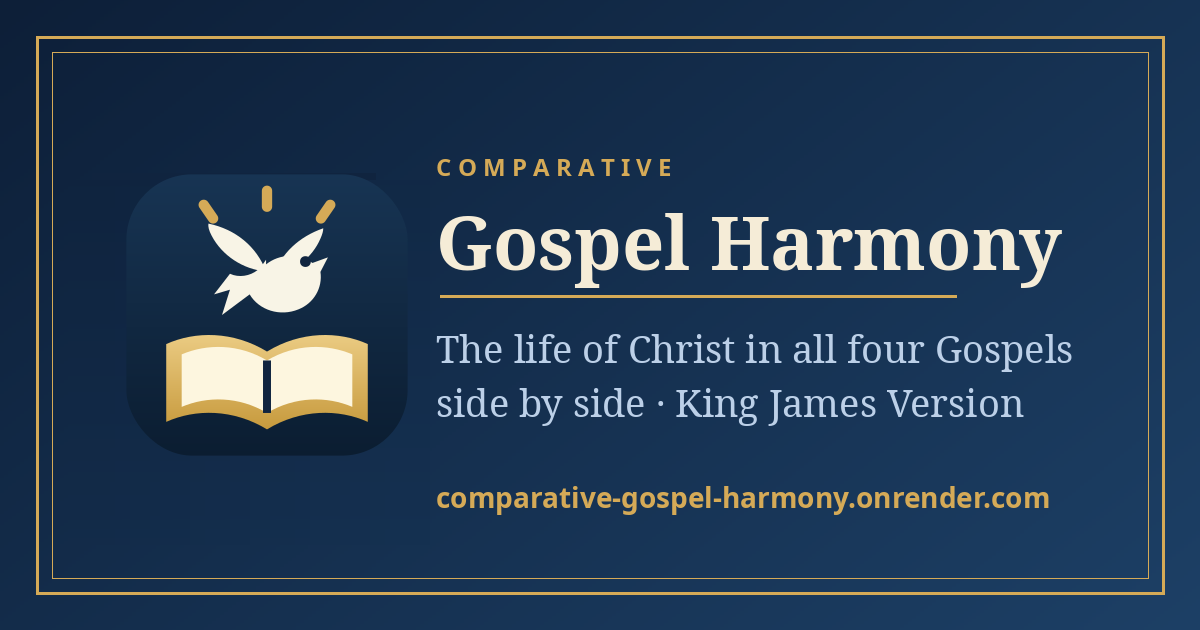
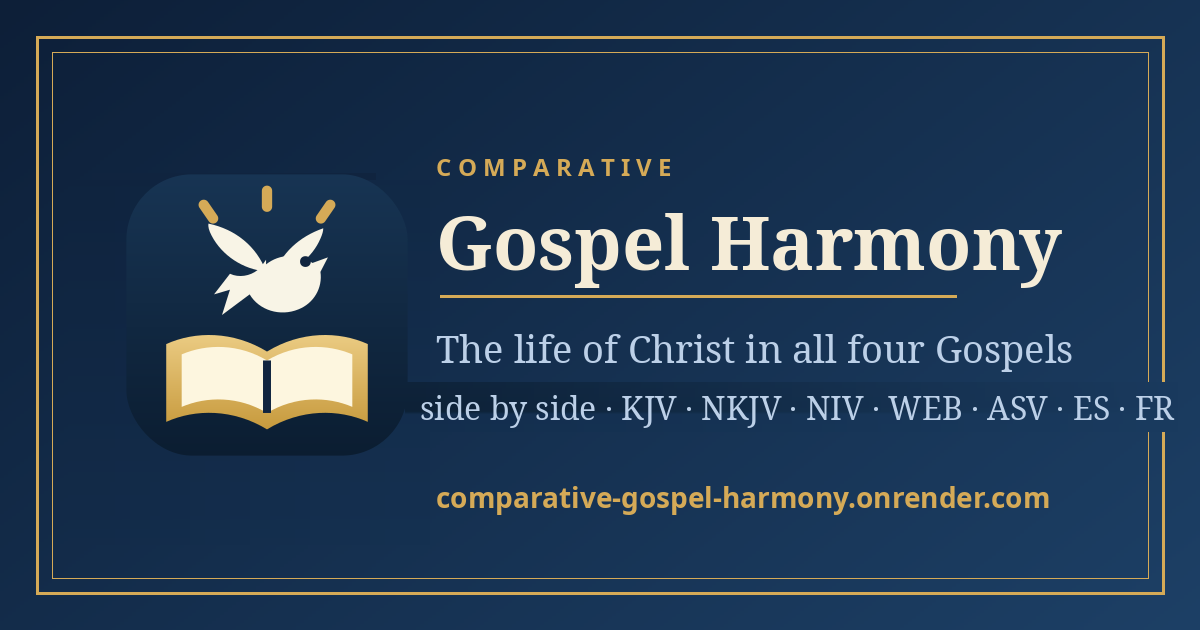
Share card + descriptions: name all 7 Bible versions, SW v36

Changed region(s): [[0.3392, 0.6032, 0.9867, 0.6937]]

diff --git a/index.html b/index.html
@@ -5,7 +5,7 @@
   <meta name="viewport" content="width=device-width, initial-scale=1">
   <meta name="theme-color" content="#10243f">
   <script>try{if(/(access_token|refresh_token|type=recovery)/.test(location.hash)){sessionStorage.setItem("gh-auth-hash",location.hash)}}catch(e){}</script>
-  <meta name="description" content="Compare every chronological Gospel event across Matthew, Mark, Luke, and John in the King James Version.">
+  <meta name="description" content="Compare every chronological Gospel event across Matthew, Mark, Luke, and John — in the KJV, NKJV, NIV, WEB, ASV, Spanish and French.">
   <title>Comparative Gospel Harmony</title>
   <link rel="icon" type="image/svg+xml" href="logo.svg">
   <link rel="stylesheet" href="styles.css?v=24">
@@ -29,7 +29,7 @@
 .hdr-menu-acct .acct-btn{margin:0 6px 6px 0}</style><link rel="manifest" href="manifest.webmanifest"><meta property="og:type" content="website">
 <meta property="og:site_name" content="Comparative Gospel Harmony">
 <meta property="og:title" content="Comparative Gospel Harmony — The Life of Jesus, Side by Side">
-<meta property="og:description" content="Read all four Gospels side by side in the KJV: 185 events of Jesus’ life compared across Matthew, Mark, Luke and John — with audio narration, reading journeys, and films.">
+<meta property="og:description" content="Read all four Gospels side by side: 185 events of Jesus’ life compared across Matthew, Mark, Luke and John — in the KJV, NKJV, NIV, WEB, ASV, Spanish and French, with audio narration, reading journeys, and films.">
 <meta property="og:url" content="https://comparative-gospel-harmony.onrender.com/">
 <meta property="og:image" content="https://comparative-gospel-harmony.onrender.com/og-image.png">
 <meta name="twitter:card" content="summary_large_image">
@@ -41,7 +41,7 @@
 
 <script type="application/ld+json">
 {"@context":"https://schema.org","@graph":[
-{"@type":"WebSite","name":"Comparative Gospel Harmony","url":"https://comparative-gospel-harmony.onrender.com/","inLanguage":"en","description":"Read the four Gospels side by side in the King James Version: the life of Jesus Christ arranged into 185 chronological events across Matthew, Mark, Luke and John."},
+{"@type":"WebSite","name":"Comparative Gospel Harmony","url":"https://comparative-gospel-harmony.onrender.com/","inLanguage":"en","description":"Read the four Gospels side by side in the KJV, NKJV, NIV, WEB, ASV, Spanish and French: the life of Jesus Christ arranged into 185 chronological events across Matthew, Mark, Luke and John."},
 {"@type":"WebApplication","name":"Comparative Gospel Harmony","url":"https://comparative-gospel-harmony.onrender.com/","applicationCategory":"EducationalApplication","operatingSystem":"Any","browserRequirements":"Requires JavaScript","offers":{"@type":"Offer","price":"0","priceCurrency":"USD"},"description":"A free Gospel harmony and Bible study app: compare every event of Jesus' life across the four Gospels in the KJV, with audio narration, a 30-day reading journey, films, a Life of Christ quiz, and a Scripture chat."}
 ]}
 </script>
@@ -77,7 +77,7 @@
     <div class="home-hero-motif" aria-hidden="true"><span class="home-hero-rule"></span><span class="home-hero-star">&#10022;</span><span class="home-hero-book">&#128214;</span><span class="home-hero-star">&#10022;</span><span class="home-hero-rule"></span></div>
     <h1 class="home-hero-title">Welcome to the Gospel Harmony</h1>
     <p class="home-hero-sub">The Life of Jesus, Told by All Four Gospels &mdash; Side by Side</p>
-    <p class="home-hero-lede">Matthew, Mark, Luke and John come together in one chronological story of Jesus' life &mdash; all <strong>185 events</strong>, from the first announcements of His birth to the Resurrection and the Ascension, with every Gospel's account set side by side in the King James Version (with the WEB and ASV alongside). Read, listen, watch and compare the full testimony in one place, free.</p>
+    <p class="home-hero-lede">Matthew, Mark, Luke and John come together in one chronological story of Jesus' life &mdash; all <strong>185 events</strong>, from the first announcements of His birth to the Resurrection and the Ascension, with every Gospel's account set side by side in the King James Version (with the NKJV, NIV, WEB, ASV, Spanish and French alongside). Read, listen, watch and compare the full testimony in one place, free.</p>
     <div class="home-hero-actions">
       <button type="button" class="home-hero-btn home-hero-btn-primary" id="startReading">&#128214; Start Reading</button>
       <a class="home-hero-btn home-hero-btn-outline" href="journey.html">&#128197; Take the 30-Day Journey</a>

diff --git a/service-worker.js b/service-worker.js
@@ -2,7 +2,7 @@
    Shell: app pages, scripts, styles and data (no audio) precached on
    install. Audio: served cache-first from 'gh-audio-v1', which the
    Listening Journeys page fills when the reader chooses to save it. */
-var SHELL = 'gh-shell-v35';
+var SHELL = 'gh-shell-v36';
 var AUDIO = 'gh-audio-v1';
 var PRECACHE = ["/", "/account.js", "/acts-events.js", "/acts-harmony.html", "/acts-view.js", "/acts.css", "/advent.html", "/advent.js", "/app.js", "/audio-journeys.js", "/bible.html", "/calvin-commentary.js", "/classic-commentary.js", "/data.js", "/differ.js", "/events-index.js", "/films.html", "/footnotes-data.js", "/footnotes.css", "/footnotes.js", "/glossary.js", "/growth.css", "/gh-sync.js", "/growth.js", "/icon-192.png", "/icon-512.png", "/icon-maskable-512.png", "/images.js", "/index.html", "/journey.html", "/journey.js", "/listen.html", "/logo.svg", "/library.js", "/listen.js", "/listen-bible.js", "/listen-acts.js", "/manifest.webmanifest", "/new-testament.html", "/nt-bible-1.js", "/nt-bible-2.js", "/nt-bible-3.js", "/nt-bible-4.js", "/nt-bible-5.js", "/nt-bible-6.js", "/nt-books.js", "/nt-calvin.js", "/nt-commentary.js", "/nt-images.js", "/nt-reader.js", "/nt-refs.js", "/nt-visuals.js", "/nt.css", "/old-testament.html", "/ot-bible-1.js", "/ot-bible-2.js", "/ot-bible-3.js", "/ot-bible-4.js", "/ot-bible-5.js", "/ot-bible-6.js", "/ot-bible-7.js", "/ot-bible-8.js", "/ot-books.js", "/ot-commentary-1.js", "/ot-commentary-2.js", "/ot-commentary-3.js", "/ot-commentary-4.js", "/ot-commentary-5.js", "/ot-commentary-6.js", "/ot-commentary-7.js", "/ot-commentary-8.js", "/ot-images.js", "/ot-reader.js", "/ot-refs-1.js", "/ot-refs-2.js", "/ot-refs-3.js", "/ot-refs-4.js", "/ot-refs-5.js", "/ot-refs-6.js", "/ot-refs-7.js", "/ot-refs-8.js", "/ot-visuals.js", "/pwa.js", "/search.css", "/search.html", "/search.js", "/og-image.png", "/quiz.html", "/quiz.js", "/searchbar.js", "/share.js", "/study-tools.js", "/study.js", "/styles.css", "/swipe-nav.js", "/swipe-test.html", "/swipe.js", "/translation-ASV.js", "/translation-ES.js", "/translation-FR.js", "/translation-WEB.js", "/translations.css", "/translations.js", "/verse-context.js", "/verse-day.js", "/verse-names.js", "/verse-refs.js", "/verse-text-1.js", "/verse-text-2.js", "/verse-text-3.js", "/verse-text-4.js", "/visuals.js", "/watch-links.js", "/welcome.js", "/chat.html", "/chat.js", "/talk.js"];
 
